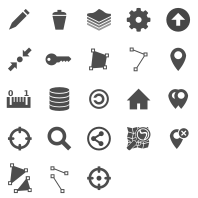
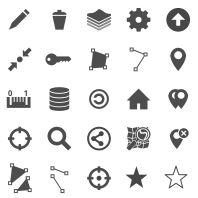
(WIP) Allow to star map and retrieve starred maps

diff --git a/umap/static/umap/js/umap.js b/umap/static/umap/js/umap.js
@@ -60,6 +60,7 @@ L.U.Map.include({
     'tilelayers',
     'editinosm',
     'datalayers',
+    'star',
   ],
 
   initialize: function (el, geojson) {
@@ -309,6 +310,7 @@ L.U.Map.include({
     this._controls.search = new L.U.SearchControl()
     this._controls.embed = new L.Control.Embed(this, this.options.embedOptions)
     this._controls.tilelayers = new L.U.TileLayerControl(this)
+    this._controls.star = new L.U.StarControl(this)
     this._controls.editinosm = new L.Control.EditInOSM({
       position: 'topleft',
       widgetOptions: {
@@ -1283,6 +1285,7 @@ L.U.Map.include({
     'embedControl',
     'measureControl',
     'tilelayersControl',
+    'starControl',
     'easing',
   ],
 
@@ -1367,6 +1370,28 @@ L.U.Map.include({
 
   getSaveUrl: function () {
     return (this.options.umap_id && this.getEditUrl()) || this.getCreateUrl()
+  },
+
+  star: function () {
+    if (!this.options.umap_id)
+      return this.ui.alert({
+        content: L._('Please save the map first'),
+        level: 'error',
+      })
+    let url = L.Util.template(this.options.urls.map_star, {
+      map_id: this.options.umap_id,
+    })
+    this.post(url, {
+      context: this,
+      callback: function (data) {
+        this.options.starred = data.starred
+        let msg = data.starred
+          ? L._('Map has been starred')
+          : L._('Map has been unstarred')
+        this.ui.alert({ content: msg, level: 'info' })
+        this.renderControls()
+      },
+    })
   },
 
   geometry: function () {

diff --git a/umap/static/umap/js/umap.controls.js b/umap/static/umap/js/umap.controls.js
@@ -1018,6 +1018,28 @@ L.U.AttributionControl = L.Control.Attribution.extend({
   },
 })
 
+L.U.StarControl = L.Control.extend({
+  options: {
+    position: 'topleft',
+  },
+
+  onAdd: function (map) {
+    var status = map.options.starred ? ' starred' : ''
+    var container = L.DomUtil.create(
+        'div',
+        'leaflet-control-star umap-control' + status
+      ),
+      link = L.DomUtil.create('a', '', container)
+    link.href = '#'
+    link.title = L._('Star this map')
+    L.DomEvent.on(link, 'click', L.DomEvent.stop)
+      .on(link, 'click', map.star, map)
+      .on(link, 'dblclick', L.DomEvent.stopPropagation)
+
+    return container
+  },
+})
+
 L.U.Search = L.PhotonSearch.extend({
   initialize: function (map, input, options) {
     L.PhotonSearch.prototype.initialize.call(this, map, input, options)

diff --git a/umap/templates/auth/user_stars.html b/umap/templates/auth/user_stars.html
@@ -1,0 +1,20 @@
+{% extends "umap/content.html" %}
+
+{% load i18n %}
+
+{% block maincontent %}
+<div class="col wide">
+  <h2 class="section">{% blocktrans %}Browse {{ current_user }}'s starred maps{% endblocktrans %}</h2>
+</div>
+<div class="wrapper">
+<div class="map_list row">
+  {% if maps %}
+    {% include "umap/map_list.html" %}
+  {% else %}
+    <div>
+      {% blocktrans %}{{ current_user }} has no starred maps yet.{% endblocktrans %}
+    </div>
+  {% endif %}
+</div>
+</div>
+{% endblock maincontent %}

diff --git a/umap/templates/umap/navigation.html b/umap/templates/umap/navigation.html
@@ -8,6 +8,7 @@
     <ul>
       {% if user.is_authenticated %}
         <li><a href="{% url 'user_maps' user.username %}">{% trans "My maps" %} ({{ user }})</a></li>
+        <li><a href="{% url 'user_stars' user.username %}">{% trans "Starred maps" %}</a></li>
       {% else %}
         <li><a href="{% url 'login' %}" class="login">{% trans "Log in" %} / {% trans "Sign in" %}</a></li>
       {% endif %}

diff --git a/umap/static/umap/map.css b/umap/static/umap/map.css
@@ -88,6 +88,12 @@ a.umap-control-less {
     background-position: -80px -161px;
     box-shadow: 0 0 4px 0 black inset;
 }
+.leaflet-control-star a {
+    background-position: -122px -162px;
+}
+.leaflet-control-star.starred a {
+    background-position: -82px -162px;
+}
 .leaflet-control-search a {
     background-position: -41px -121px;
     display: block;

diff --git a/umap/static/umap/js/umap.forms.js b/umap/static/umap/js/umap.forms.js
@@ -1060,6 +1060,10 @@ L.U.FormBuilder = L.FormBuilder.extend({
       handler: 'DataLayersControl',
       label: L._('Display the data layers control'),
     },
+    starControl: {
+      handler: 'ControlChoice',
+      label: L._('Display the star map button'),
+    },
   },
 
   initialize: function (obj, fields, options) {

diff --git a/umap/views.py b/umap/views.py
@@ -45,7 +45,7 @@ from .forms import (
     MapSettingsForm,
     UpdateMapPermissionsForm,
 )
-from .models import DataLayer, Licence, Map, Pictogram, TileLayer
+from .models import DataLayer, Licence, Map, Pictogram, Star, TileLayer
 from .utils import get_uri_template, gzip_file, is_ajax
 
 try:
@@ -178,6 +178,30 @@ class UserMaps(DetailView, PaginatorMixin):
 
 
 user_maps = UserMaps.as_view()
+
+
+class UserStars(UserMaps):
+    template_name = "auth/user_stars.html"
+
+    def get_context_data(self, **kwargs):
+        owner = self.request.user == self.object
+        manager = Map.objects if owner else Map.public
+        stars = Star.objects.filter(by=self.object).values("map")
+        maps = manager.filter(pk__in=stars)
+        if owner:
+            per_page = settings.UMAP_MAPS_PER_PAGE_OWNER
+            limit = 100
+        else:
+            per_page = settings.UMAP_MAPS_PER_PAGE
+            limit = 50
+        maps = maps.order_by('-modified_at')[:limit]
+        maps = self.paginate(maps, per_page)
+        kwargs.update({
+            "maps": maps
+        })
+        return kwargs
+
+user_stars = UserStars.as_view()
 
 
 class Search(TemplateView, PaginatorMixin):
@@ -360,6 +384,7 @@ class MapDetailMixin:
             "allowEdit": self.is_edit_allowed(),
             "default_iconUrl": "%sumap/img/marker.png" % settings.STATIC_URL,  # noqa
             "umap_id": self.get_umap_id(),
+            'starred': self.is_starred(),
             "licences": dict((l.name, l.json) for l in Licence.objects.all()),
             "edit_statuses": [(i, str(label)) for i, label in Map.EDIT_STATUS],
             "share_statuses": [
@@ -403,6 +428,9 @@ class MapDetailMixin:
 
     def get_umap_id(self):
         return None
+
+    def is_starred(self):
+        return False
 
     def get_geojson(self):
         return {
@@ -488,6 +516,12 @@ class MapView(MapDetailMixin, PermissionsMixin, DetailView):
         map_settings["properties"]["name"] = self.object.name
         map_settings["properties"]["permissions"] = self.get_permissions()
         return map_settings
+
+    def is_starred(self):
+        user = self.request.user
+        if not user.is_authenticated:
+            return False
+        return Star.objects.filter(by=user, map=self.object).exists()
 
 
 class MapViewGeoJSON(MapView):
@@ -629,6 +663,20 @@ class MapClone(PermissionsMixin, View):
             msg = _("Congratulations, your map has been cloned!")
         messages.info(self.request, msg)
         return response
+
+
+class MapStar(View):
+
+    def post(self, *args, **kwargs):
+        map_inst = get_object_or_404(Map, pk=kwargs['map_id'])
+        qs = Star.objects.filter(map=map_inst, by=self.request.user)
+        if qs.exists():
+            qs.delete()
+            status = False
+        else:
+            Star(map=map_inst, by=self.request.user).save()
+            status = True
+        return simple_json_response(starred=status)
 
 
 class MapShortUrl(RedirectView):

diff --git a/umap/urls.py b/umap/urls.py
@@ -4,6 +4,7 @@ from django.conf.urls.i18n import i18n_patterns
 from django.conf.urls.static import static
 from django.contrib import admin
 from django.contrib.auth import views as auth_views
+from django.contrib.auth.decorators import login_required
 from django.contrib.staticfiles.urls import staticfiles_urlpatterns
 from django.views.decorators.cache import cache_control, cache_page, never_cache
 from django.views.decorators.csrf import ensure_csrf_cookie
@@ -93,6 +94,14 @@ i18n_urls += decorated_patterns(
     re_path(r"^map/create/$", views.MapCreate.as_view(), name="map_create"),
 )
 i18n_urls += decorated_patterns(
+    [login_required],
+    re_path(
+        r'^map/(?P<map_id>[\d]+)/star/$',
+        views.MapStar.as_view(),
+        name='map_star'
+    ),
+)
+i18n_urls += decorated_patterns(
     [map_permissions_check, never_cache],
     re_path(
         r"^map/(?P<map_id>[\d]+)/update/settings/$",
@@ -143,6 +152,7 @@ urlpatterns += i18n_patterns(
     re_path(r"^search/$", views.search, name="search"),
     re_path(r"^about/$", views.about, name="about"),
     re_path(r"^user/(?P<username>.+)/$", views.user_maps, name="user_maps"),
+    re_path(r'^user/(?P<username>[-_\w@]+)/stars/$', views.user_stars, name='user_stars'),
     re_path(r"", include(i18n_urls)),
 )
 

diff --git a/umap/tests/test_map_views.py b/umap/tests/test_map_views.py
@@ -5,7 +5,7 @@ from django.contrib.auth import get_user_model
 from django.urls import reverse
 
 from django.core.signing import Signer
-from umap.models import DataLayer, Map
+from umap.models import DataLayer, Map, Star
 
 from .base import login_required
 
@@ -539,3 +539,21 @@ def test_search(client, map):
     url = reverse("search")
     response = client.get(url + "?q=Blé")
     assert "Blé dur" in response.content.decode()
+
+
+def test_authenticated_user_can_star_map(client, map, user):
+    url = reverse('map_star', args=(map.pk,))
+    client.login(username=user.username, password="123123")
+    assert Star.objects.filter(by=user).count() == 0
+    response = client.post(url)
+    assert response.status_code == 200
+    assert Star.objects.filter(by=user).count() == 1
+
+
+def test_anonymous_cannot_star_map(client, map):
+    url = reverse('map_star', args=(map.pk,))
+    assert Star.objects.count() == 0
+    response = client.post(url)
+    assert response.status_code == 302
+    assert "login" in response["Location"]
+    assert Star.objects.count() == 0

diff --git a/umap/migrations/0009_star.py b/umap/migrations/0009_star.py
@@ -1,0 +1,25 @@
+# Generated by Django 4.1.7 on 2023-05-05 18:02
+
+from django.conf import settings
+from django.db import migrations, models
+import django.db.models.deletion
+
+
+class Migration(migrations.Migration):
+
+    dependencies = [
+        migrations.swappable_dependency(settings.AUTH_USER_MODEL),
+        ('umap', '0008_alter_map_settings'),
+    ]
+
+    operations = [
+        migrations.CreateModel(
+            name='Star',
+            fields=[
+                ('id', models.AutoField(auto_created=True, primary_key=True, serialize=False, verbose_name='ID')),
+                ('at', models.DateTimeField(auto_now=True)),
+                ('by', models.ForeignKey(on_delete=django.db.models.deletion.CASCADE, related_name='stars', to=settings.AUTH_USER_MODEL)),
+                ('map', models.ForeignKey(on_delete=django.db.models.deletion.CASCADE, to='umap.map')),
+            ],
+        ),
+    ]

diff --git a/umap/models.py b/umap/models.py
@@ -349,3 +349,9 @@ class DataLayer(NamedModel):
                     self.geojson.storage.delete(path)
                 except FileNotFoundError:
                     pass
+
+
+class Star(models.Model):
+    at = models.DateTimeField(auto_now=True)
+    map = models.ForeignKey(Map, on_delete=models.CASCADE)
+    by = models.ForeignKey(settings.AUTH_USER_MODEL, related_name="stars", on_delete=models.CASCADE)
